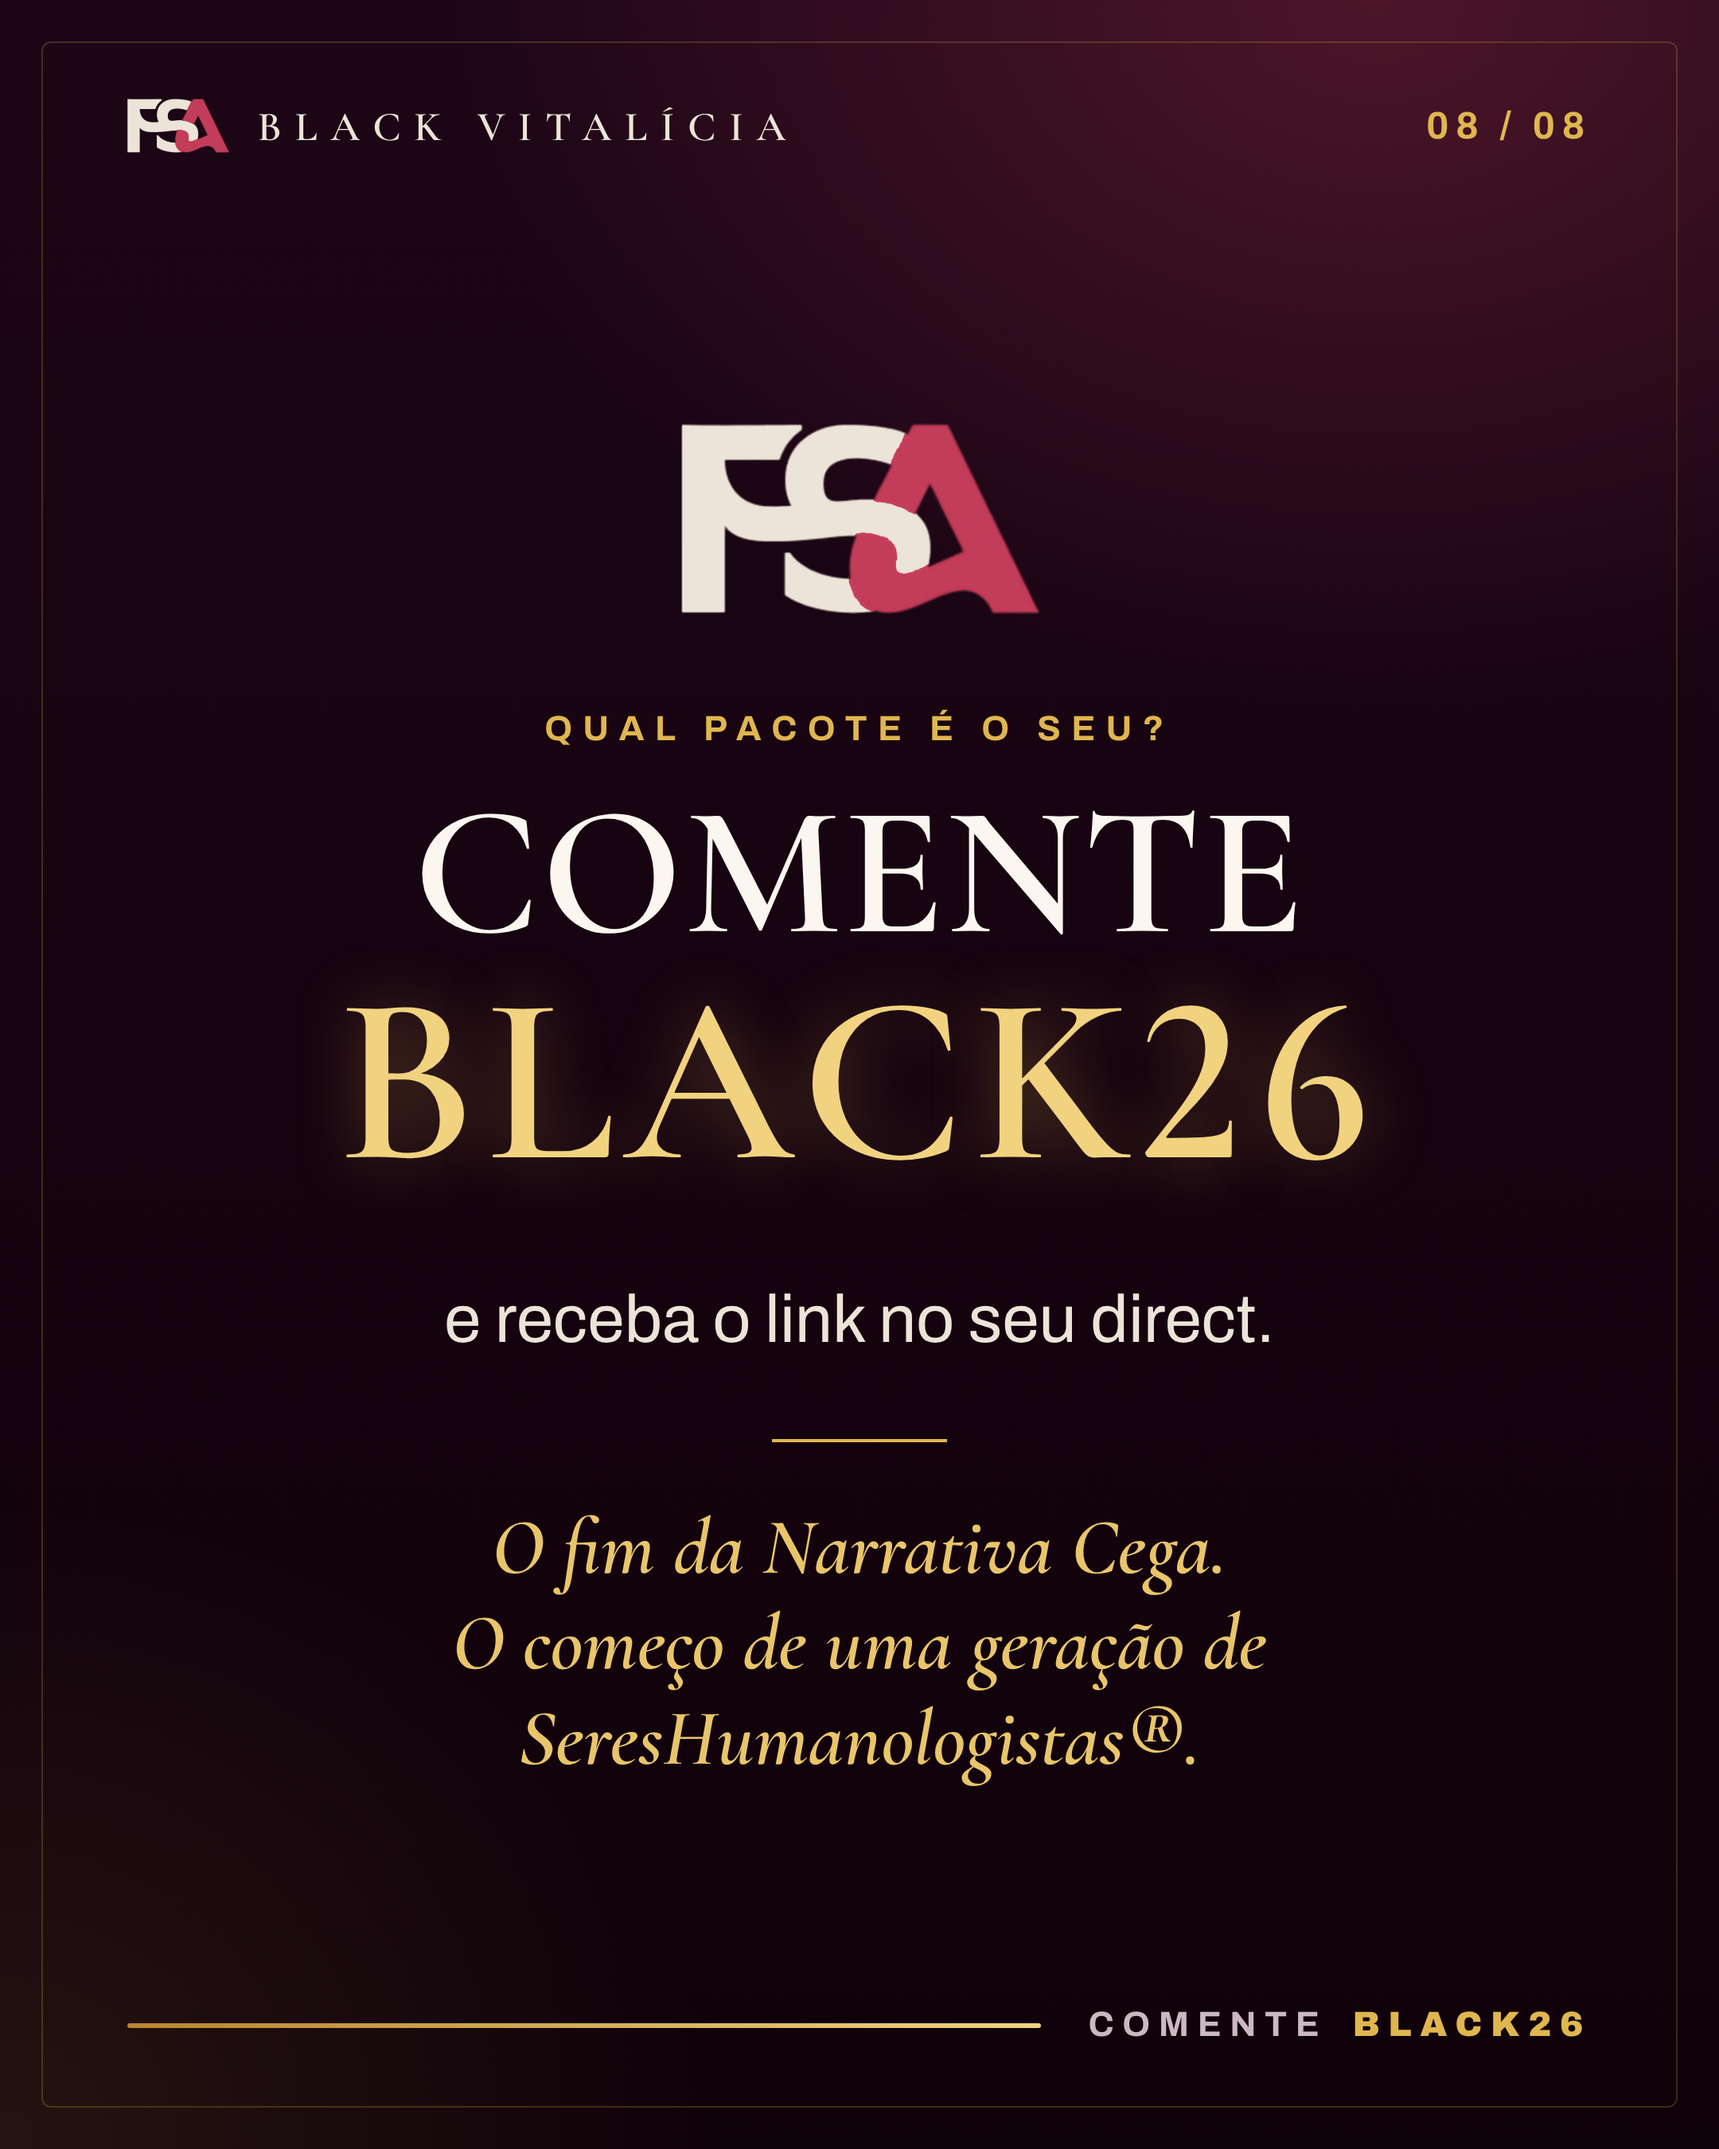
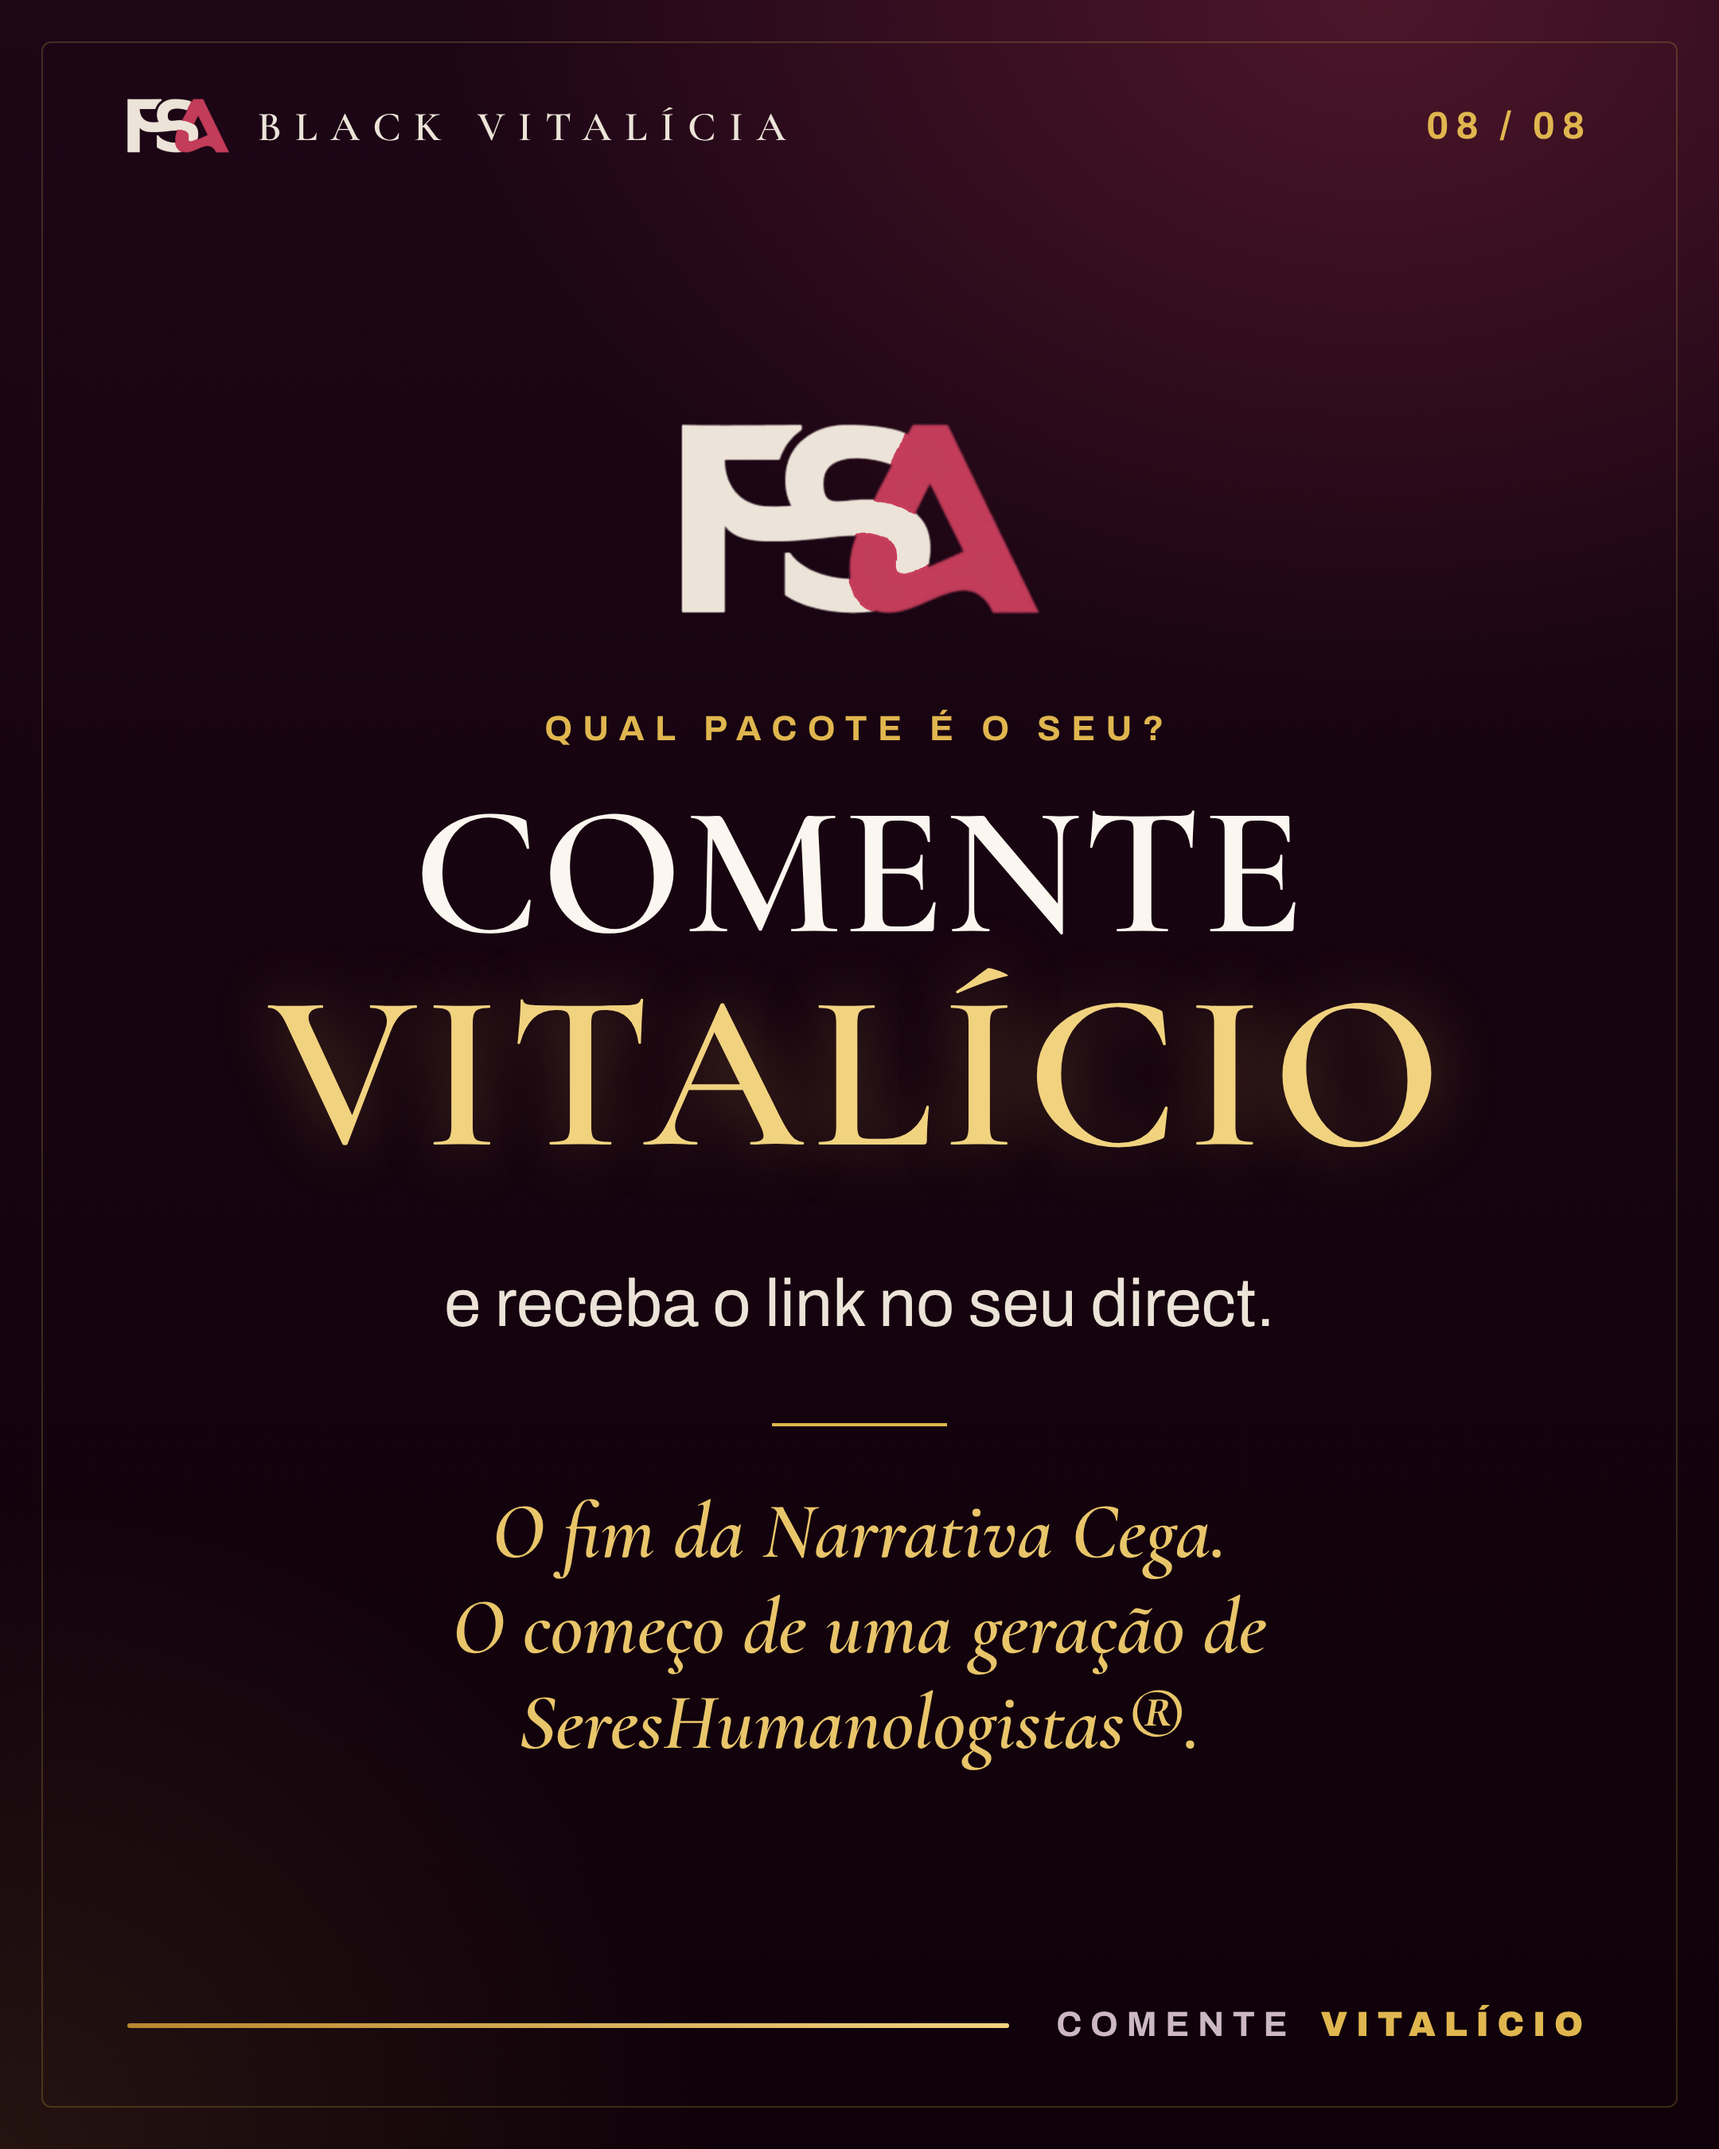
Carrossel Black: palavra-chave VITALÍCIO no slide final
Claude-Session: https://claude.ai/code/session_01KgesPtUiFaTyPjQzLX5smy

diff --git a/fsa/campanha-black/carrossel-lancamento/carrossel.html b/fsa/campanha-black/carrossel-lancamento/carrossel.html
@@ -82,7 +82,7 @@ body{background:#333}
 /* fim */
 .fim .logo-g{display:block;height:120px;margin:170px auto 60px}
 .fim .lead{margin-top:46px}
-.kw{font-variant-numeric:lining-nums;font-feature-settings:"lnum" 1;font-size:150px;letter-spacing:.04em;font-style:normal!important;color:#F1D27F!important;text-shadow:0 0 40px rgba(224,182,79,.35)}
+.kw{font-variant-numeric:lining-nums;font-feature-settings:"lnum" 1;font-size:140px;letter-spacing:.04em;font-style:normal!important;color:#F1D27F!important;text-shadow:0 0 40px rgba(224,182,79,.35)}
 .assin{text-align:center;font-family:Corm;font-style:italic;font-weight:600;font-size:50px;line-height:1.2;color:#E9C56A}
 </style></head><body><section class="slide capa"><div class="top"><div class="brand"><img src="logo-fsa-escuro.png" alt=""><span>BLACK VITALÍCIA</span></div><div class="pg">01 / 08</div></div><div class="cena"><img src="cena.jpg" alt=""></div>
 <h1 class="big">REVELAMOS<br>A BLACK DA FSA</h1><div class="ital">pela primeira vez, vitalícia.</div><div class="rule"></div>
@@ -99,6 +99,6 @@ body{background:#333}
 <section class="slide oferta"><div class="top"><div class="brand"><img src="logo-fsa-escuro.png" alt=""><span>BLACK VITALÍCIA</span></div><div class="pg">07 / 08</div></div><div class="kick">A CONDIÇÃO</div><h2 class="big">PARA SEMPRE,<br><em>até 50% menos.</em></h2>
 <p class="lead">Pagando até 50% menos do que o valor das formações compradas separadas. O vitalício é o que muda a sua prática. O desconto é a prova de que esta Black é diferente.</p>
 <div class="preco"><small>PACOTES A PARTIR DE</small><b>12x R$ 579,40</b><span>ou R$ 5.947 à vista, com desconto</span></div><div class="foot"><div class="bar"><i style="width:87%"></i></div><span class="arr">ARRASTE <b>→</b></span></div></section>
-<section class="slide fim"><div class="top"><div class="brand"><img src="logo-fsa-escuro.png" alt=""><span>BLACK VITALÍCIA</span></div><div class="pg">08 / 08</div></div><img class="logo-g" src="logo-fsa-escuro.png" alt=""><div class="kick c" style="margin-top:0;text-align:center">QUAL PACOTE É O SEU?</div><h2 class="big c">COMENTE<br><em class="kw">BLACK26</em></h2>
+<section class="slide fim"><div class="top"><div class="brand"><img src="logo-fsa-escuro.png" alt=""><span>BLACK VITALÍCIA</span></div><div class="pg">08 / 08</div></div><img class="logo-g" src="logo-fsa-escuro.png" alt=""><div class="kick c" style="margin-top:0;text-align:center">QUAL PACOTE É O SEU?</div><h2 class="big c">COMENTE<br><em class="kw">VITALÍCIO</em></h2>
 <p class="lead c">e receba o link no seu direct.</p>
-<div class="rule c"></div><div class="assin">O fim da Narrativa Cega.<br>O começo de uma geração de SeresHumanologistas®.</div><div class="foot"><div class="bar"><i style="width:100%"></i></div><span class="arr">COMENTE <b>BLACK26</b></span></div></section></body></html>
+<div class="rule c"></div><div class="assin">O fim da Narrativa Cega.<br>O começo de uma geração de SeresHumanologistas®.</div><div class="foot"><div class="bar"><i style="width:100%"></i></div><span class="arr">COMENTE <b>VITALÍCIO</b></span></div></section></body></html>
